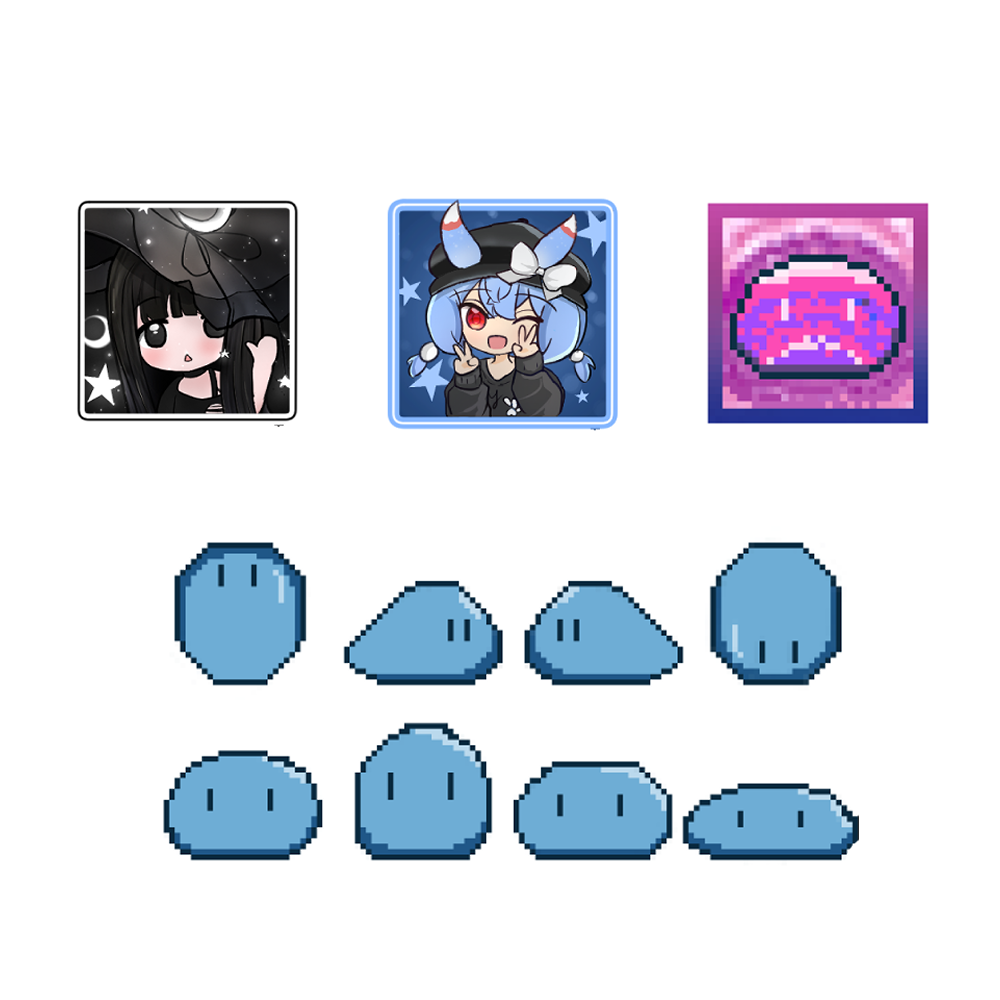
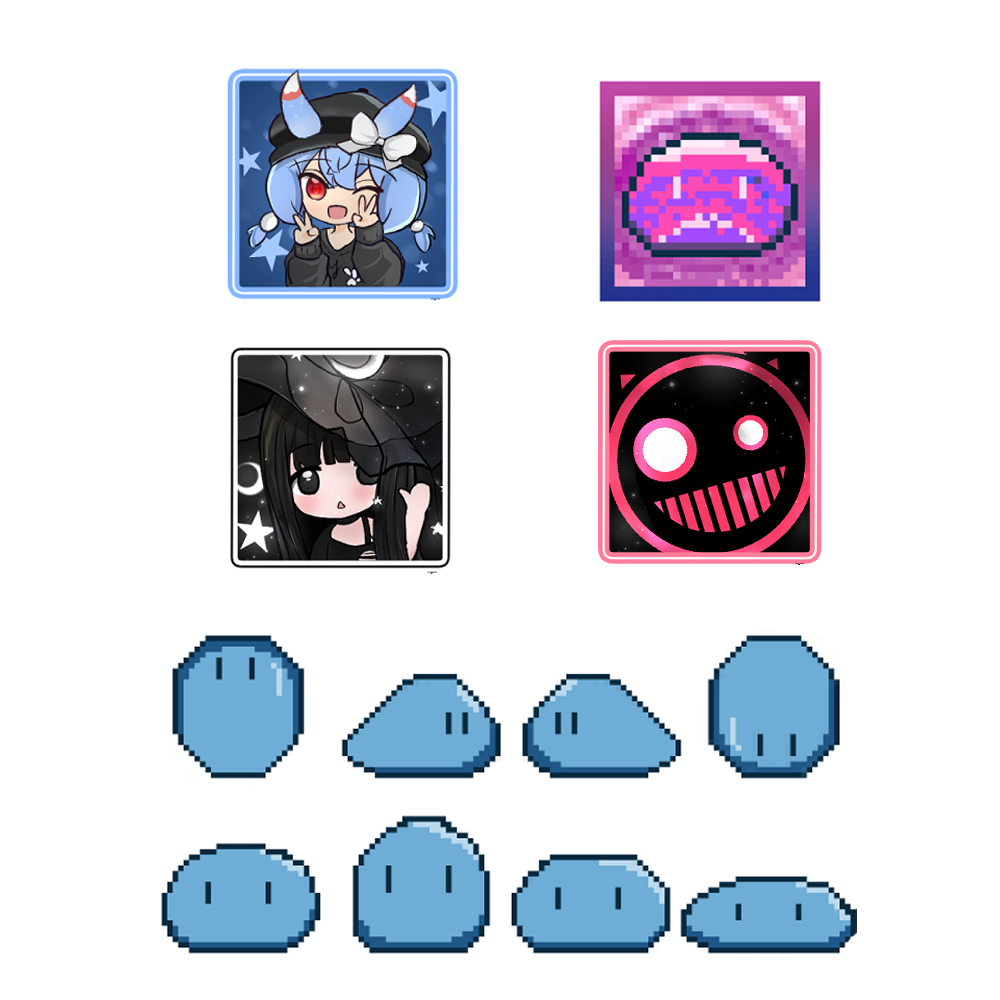
Update

diff --git a/src/components/Projects/DevSection.jsx b/src/components/Projects/DevSection.jsx
@@ -8,6 +8,8 @@ import g2 from "../../assets/projects/game/g2.png";
 import g3 from "../../assets/projects/game/g3.png";
 import g4 from "../../assets/projects/game/g4.png";
 import g5 from "../../assets/projects/game/g5.png";
+import g6 from "../../assets/projects/game/g6.png";
+import g7 from "../../assets/projects/game/g7.png";
 
 import wc1 from "../../assets/projects/weatherchill/1.png";
 import wc2 from "../../assets/projects/weatherchill/2.png";
@@ -37,7 +39,7 @@ const DevSection = () => {
       title: "Game bullet hell",
       descKey: "dev.projects.game.desc",
       tags: ["Unity", "C#"],
-      images: [g1, g2, g3, g4, g5],
+      images: [g1, g2, g3, g4, g5, g6, g7],
       link: "https://hoangphong202.github.io/BULLET-HELL",
     },
     {
